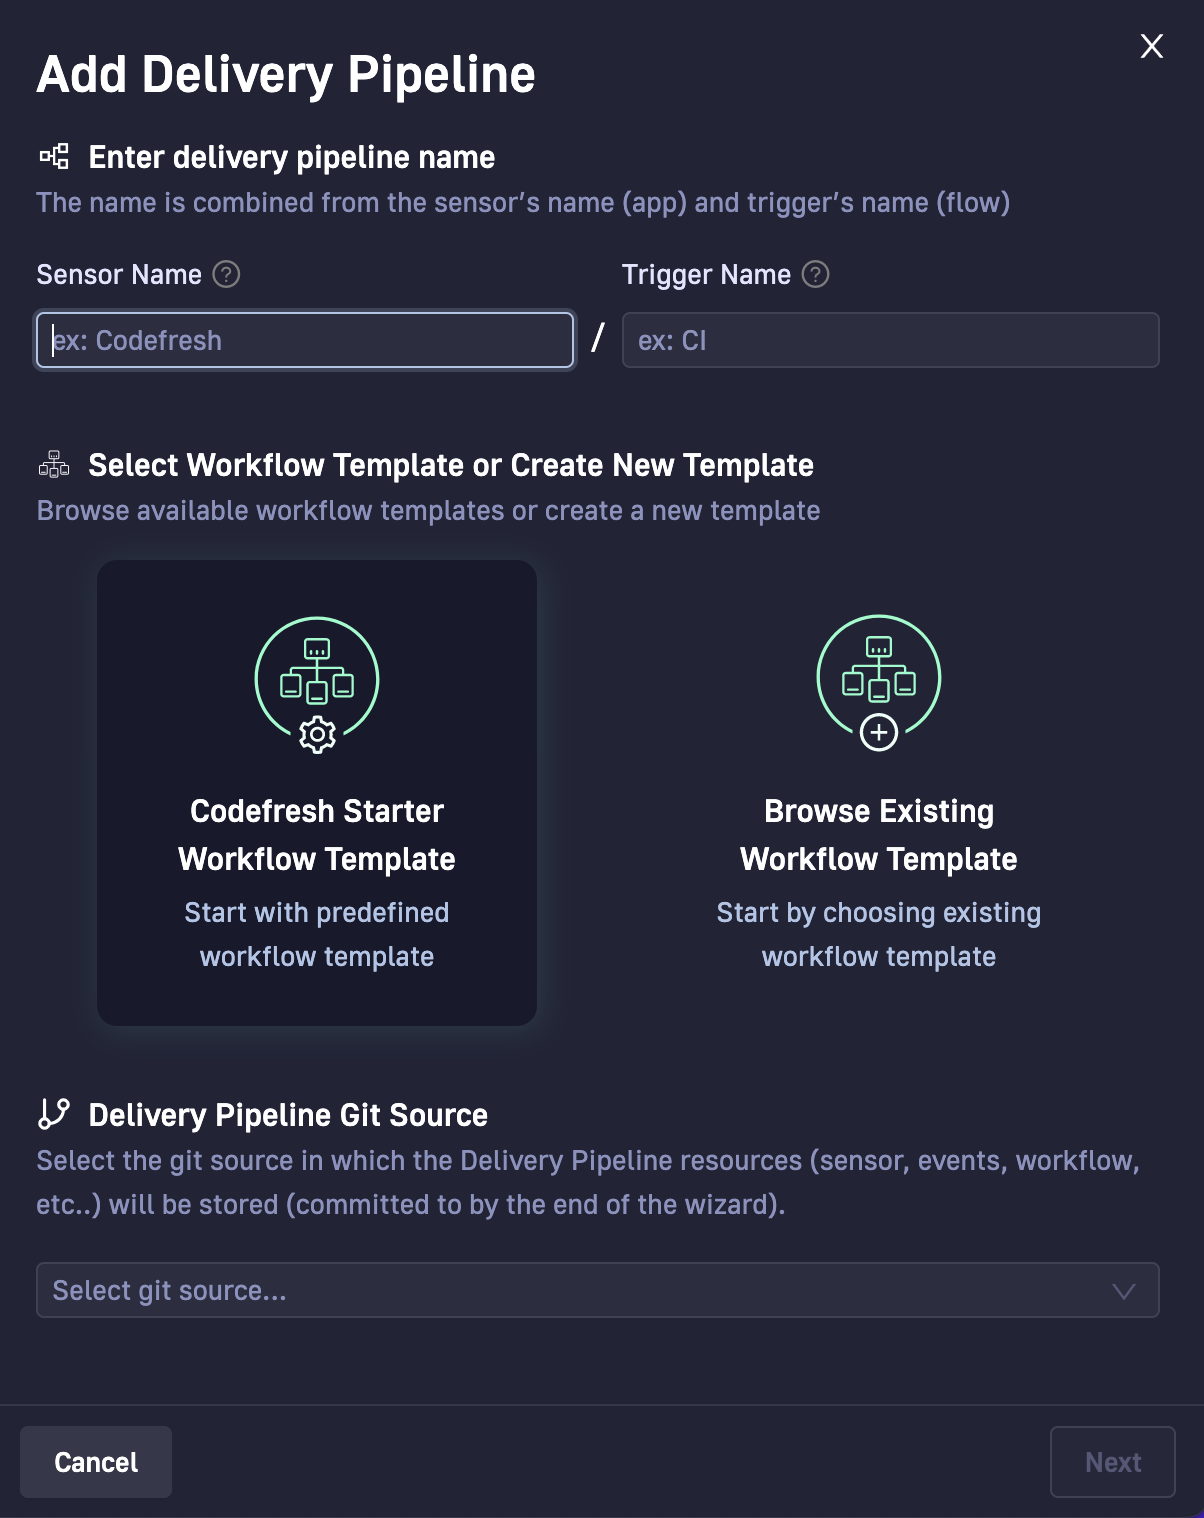
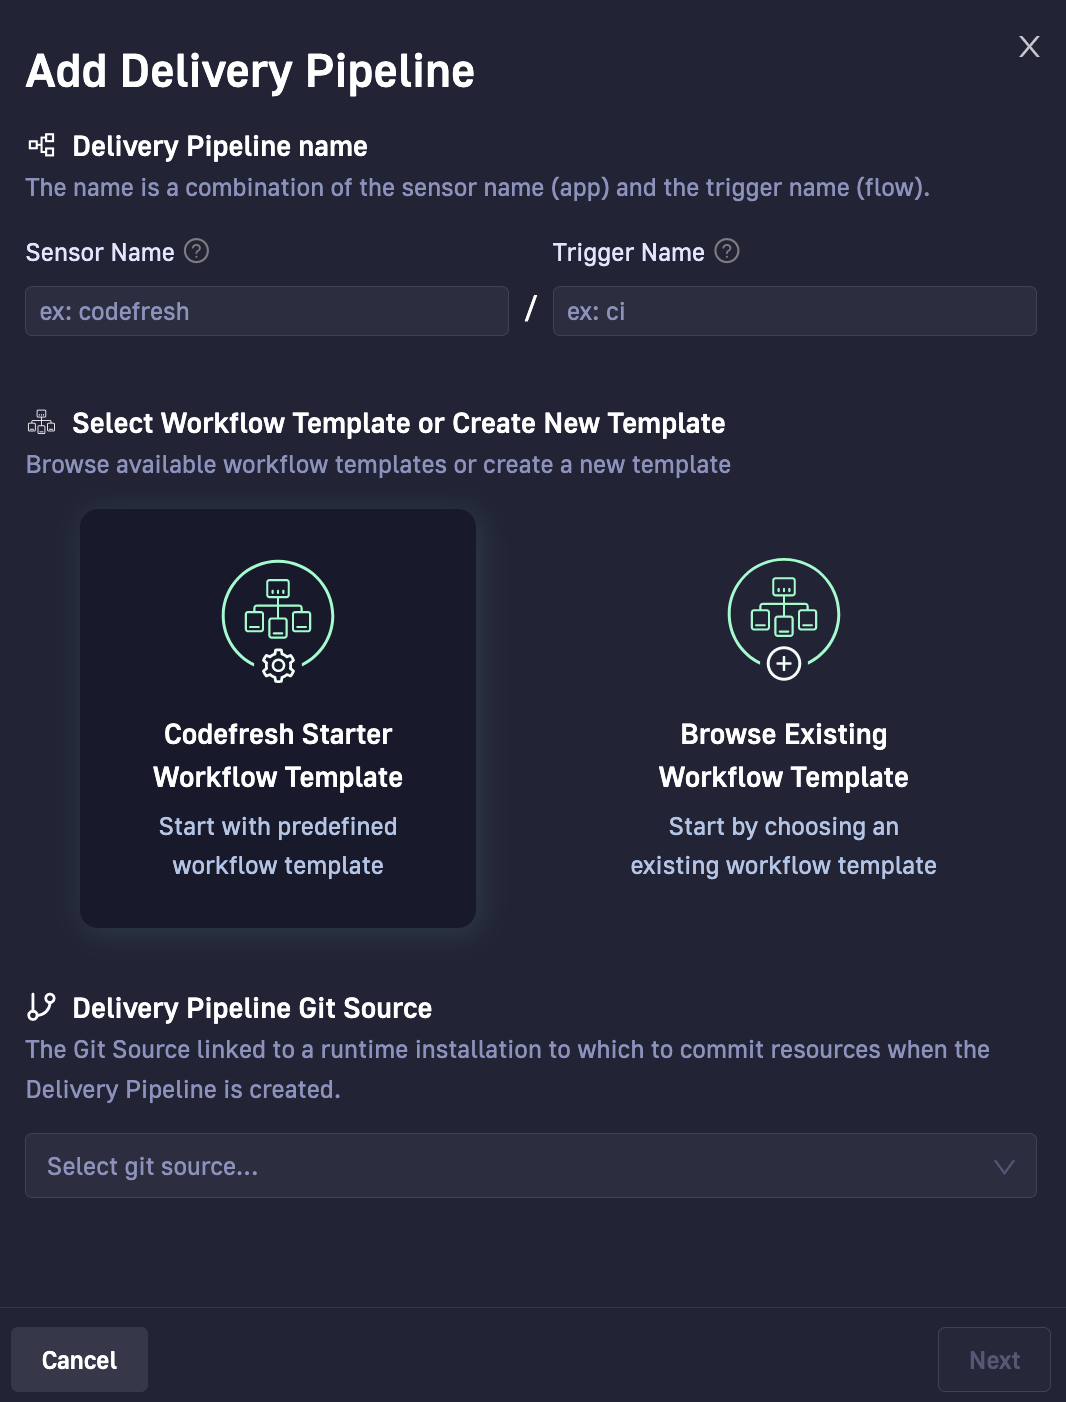
Updates
Added browse existing workflows

diff --git a/_docs/pipelines/create-pipeline.md b/_docs/pipelines/create-pipeline.md
@@ -18,14 +18,14 @@ In CSDP, the Delivery Pipeline is a logical entity that connects an event-source
 Every sensor-trigger pair is a unique pipeline in CSDP. The same sensor with multiple triggers creates a different pipeline for every trigger.
 
 #### Git-Ops permission model
-Access to Git Sources and Got repositories are based on the user's write permissions defined in their Git provider accounts.
+Access to Git Sources and Git repositories are based on the user's write permissions, as defined in their Git provider accounts.
 
 #### Git Source for pipeline
 The Delivery Pipeline is connected to a specific CSDP runtime installation, and is also run on this runtime, through a Git Source. 
-When the pipeline is created and synced with the cluster, the sensor manifests are stored in the Git repository.
+When the pipeline is created and synced with the cluster, all manifests generated for the pipeline are stored in the Git repository. These include the sensor and event-source manifests, and the Workflow Template manifest, if selected from Argo Hub.
 
 #### Centralized location for Argo Event-entities
-CSDP uses Argo Events to listen to events from different sources and define the conditions that trigger the events. All entities for creating and managing an Argo Event - from the event-source, event, and sensor triggers - are available in a centralized location. An intuitive selection mechanism enables you to easily select and configure each entity. Predefined variables and automated mapping to event payload makes parameterization easy. There is no need to manually create the YAML manifests for the different entities, as CSDP automatically generates them after the entities are set up.   
+CSDP uses Argo Events to listen to events from different sources and define the conditions that trigger the events. All entities for creating and managing an Argo Event - from the event-source and its events, the sensor and its triggers - are available in a centralized location. An intuitive selection mechanism enables you to easily select and configure each entity. Predefined variables and automated mapping to event payload makes parameterization easy. There is no need to manually create the YAML manifests for the different entities, as CSDP automatically generates them after the entities are set up.   
 
 
 ### Delivery Pipeline creation flow
@@ -40,15 +40,16 @@ For step-by-step instructions, see [How to: Create a Delivery Pipeline]({{site.b
 
 #### Define pipeline name and select Workflow Template to execute
 The Delivery Pipeline creation flow starts with defining a name for the pipeline, selecting the Git Source with the runtime, and selecting the Workflow Template to execute when the pipeline is run.  
+You can use the CSDP starter Workflow Template, or select an existing Workflow Template you have downloaded to a Git Source.
 
 Both Argo and Codefresh have examples and libraries of Workflow Templates you can use:
 * For conceptual information on Argo Workflows, read the [official documentation](https://argoproj.github.io/argo-workflows/){:target="\_blank"}.
 * For examples of Workflow Templates in Argo, see their [documentation by example](https://github.com/argoproj/argo-workflows/blob/master/examples/README.md){:target="\_blank"} page.
 * For a fully-certified library of ready-to-use Workflow Templates by Codefresh, see [Codefresh Hub for Argo](https://codefresh.io/argohub/){:target="\_blank"}.
 
-In the Delivery Pipeline wizard, we have our starter Workflow Template to use as a base, or you can copy and paste any Workflow Template and then modify as needed. 
+In the Delivery Pipeline wizard, we have our starter Workflow Template to use as a base, or select an existing one, or copy and paste any Workflow Template and then modify as needed. 
 
-> If your Workflow Template generates artifacts, you must [configure an artifact repository in CSDP]({{site.baseurl}}/docs/pipelines/configure-artifact-repository) to house the artifacts.
+> To share artifacts between steps in workflows, and to view archived logs for completed workflows, you must [configure an artifact repository in CSDP]({{site.baseurl}}/docs/pipelines/configure-artifact-repository).
  
 
 
@@ -97,10 +98,11 @@ Currently, we support GitHub as an event-source, and an extensive list of GitHub
 The sensor trigger arguments are identical to the Workflow Template arguments. If Workflow Template arguments have default values, these values are displayed for the corresponding Sensor arguments as well. (ask)
 > If values are defined for an argument both in the Workflow Template and in Trigger Conditions, the value defined in Trigger Conditions takes precedence. 
 
-You can override the default values or define custom values for trigger condition arguments through _parameterization_.  
-Argo Events uses parameterization to pass data from the event payload to the workflow submitted by the sensor trigger. But where in Argo Workflows, you would need to manually define the JSON path to the data in the event payload, our Delivery Pipeline wizard automates path definitions through predefined variables.
+You can override the default values or define custom values for trigger condition arguments through _parameterization_ and _Sprig template functions for Go_.  
 
-Every event has a specific payload and a specific list of predefined variables you can select from. Once you parameterize an argument with one or more predefined variables, CSDP replaces the variable with the actual JSON path in the event payload when the manifests are generated.  
+Argo Events uses parameterization to pass data from the event payload to the workflow submitted by the sensor trigger. But where in Argo Workflows you would need to manually define the JSON path to the data in the event payload, our Delivery Pipeline wizard automates path definitions through predefined variables.
+
+Every event has a specific payload and a specific list of predefined variables you can select from. You can either parameterize an argument through one or more predefined variables, or use Sprig template functions to define the values. In either case, when the manifests are generated, CSDP replaces the variables or templated values with the actual JSON path in the event payload.  
 
 
 **Filters**  
@@ -155,7 +157,7 @@ Manifests typically include:
    max-width="30%" 
    %}
 #### Commit resource files and create pipeline
-Once CSDP generates the manifests, and you validate them, you commit all the changes. The commits are synced to the Git repository or repositories, and then synced to the cluster.
+Once CSDP generates the manifests, and you validate them, you commit all the changes. The commits are synced to the Git source defined for the pipeline, and then synced to the cluster.
 
 
 ### How to: Create a Delivery Pipeline
@@ -179,11 +181,12 @@ Follow the step-by-step instructions to guide you through Delivery Pipeline wiza
   The name is created from the names of the sensor and the trigger (alphanumeric lowercase, and the - character).   
   * **Sensor Name**: The name of the sensor resource. For example, the application name, `csdp` or `codefresh`.
   * **Trigger Name**: The template that defines the context of the trigger and the actual resources the sensor must execute. For example, the flow that will be run,`ci`.
-1. Select the **Codefresh Starter Template**.  
+1. Select the **Codefresh Starter Template** or **Browse Existing Template**.  
 1. From the list of **Git Sources**, select the Git Source to which to commit the resources for this pipeline.  
   > Only those Git Sources to which you have write permissions are displayed.   
     If you have multiple runtimes installed, the Git Source you select also determines the runtime on which the pipeline is executed.
-1. Select **Next**.  
+1. Select **Next**.
+1. If needed, select the Git Source, and then the Workflow Template to work with.  
   In the **Configuration** tab, **Workflow Templates** is selected. Our CI Starter Workflow Template is shown.   
   Copy and paste any Workflow Template you want to work with, or edit the starter template as needed.  
   > Tip:  
@@ -199,7 +202,7 @@ Follow the step-by-step instructions to guide you through Delivery Pipeline wiza
    max-width="30%" 
    %}
 
-{:start="7"}
+{:start="8"}
 1. Select **Arguments**.  
   The Arguments defined in the Workflow Template and passed to the workflow when the pipeline is run, are displayed. 
 1. Enter default values for the arguments as needed.
@@ -232,7 +235,7 @@ Follow the step-by-step instructions to guide you through Delivery Pipeline wiza
    caption="Predefined variables for arguments"
    max-width="30%" 
    %}
-{:start="10"}
+{:start="11"}
 1. To create filters for the event payload:
   * From **Event Filters**, select the filter, and select **+Add**.
   * Select the operational expression and define the value of the filter.    
@@ -247,11 +250,11 @@ Follow the step-by-step instructions to guide you through Delivery Pipeline wiza
    max-width="30%" 
    %}
 
-{:start="11"}
+{:start="12"}
 1. To transform a predefined filter to a standard data filter, select **Detach & Customize**.
   The 
 
-{:start="12"}
+{:start="13"}
 1. Select **Apply**, and then **Commit** on the top-right.
   The Commit Changes panel shows the resource files created for the pipeline. These files are committed to the repository linked to the Git Source you selected in the first step of the wizard.
     {% include 
@@ -263,8 +266,11 @@ Follow the step-by-step instructions to guide you through Delivery Pipeline wiza
    caption="Pipeline resource files generated on commit"
    max-width="30%" 
    %}
-{:start="13"}
+{:start="14"}
 1. Enter a message (optional), and then select **Commit**.   
 
-CSDP commits the pipeline to the Git repository, and then syncs it to the cluster. Wait for a few seconds for the sync to complete, and verify that the pipeline is displayed in the [Delivery Pipelines](https://g.codefresh.io/2.0/pipelines){:target="\_blank"} page.
+CSDP commits the pipeline to the Git repository, and then syncs it to the cluster. Wait a few seconds for the sync to complete, and verify that the pipeline is displayed in the [Delivery Pipelines](https://g.codefresh.io/2.0/pipelines){:target="\_blank"} page.
 
+### What to read next
+({{site.baseurl}}/docs/pipelines/sharing-file-system)
+({{site.baseurl}}/docs/pipelines/concurrency-limit)

diff --git a/_docs/pipelines/sharing-file-system.md b/_docs/pipelines/sharing-file-system.md
@@ -37,3 +37,7 @@ The Container Set Template approach creates multiple steps that will eventually 
 The Container Set Template approach is best to run sequential steps that require the same file system, or run parallel steps that are not CPU or memory-intensive, and can live on the same pod, without having to scale.  
 
 For more information, see the official Argo Workflow documentation on [Container Set Templates](https://argoproj.github.io/argo-workflows/container-set-template/).
+
+### What to read next
+({{site.baseurl}}/docs/pipelines/concurrency-limit)
+({{site.baseurl}}/docs/pipelines/create-pipeline)
